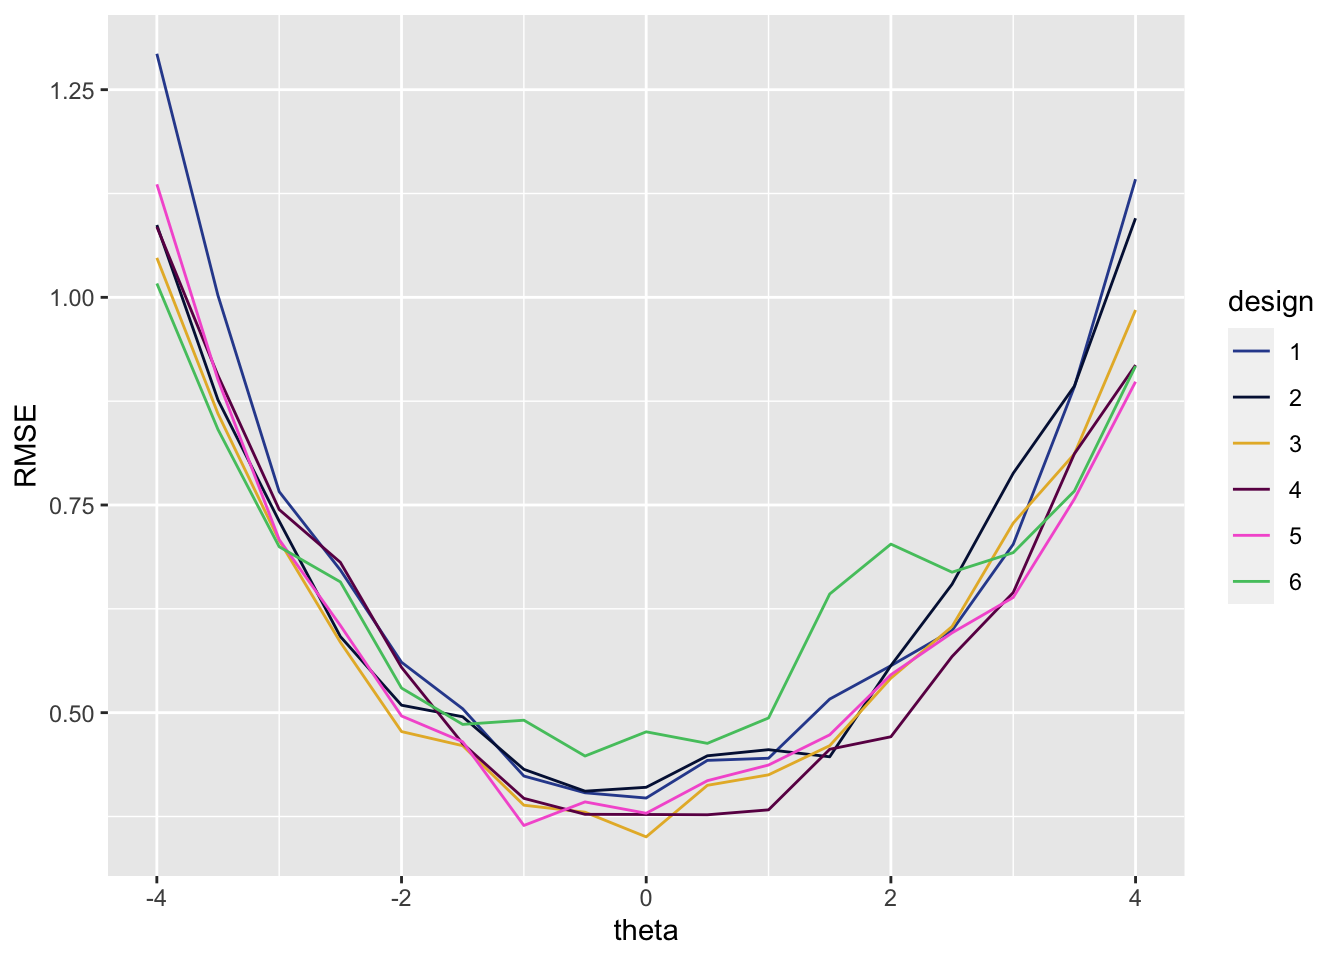
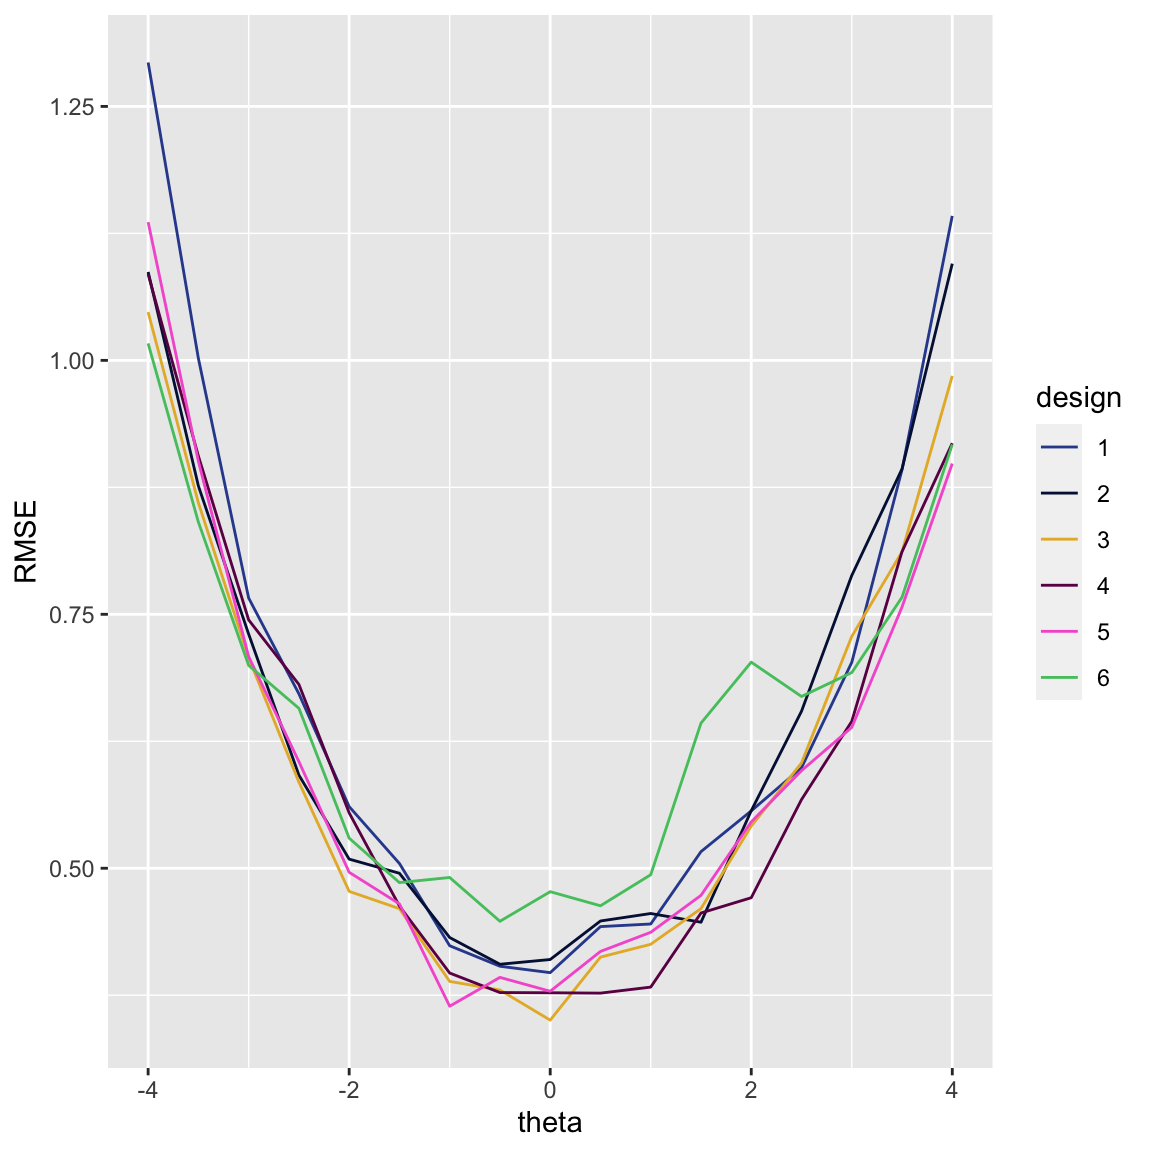
Edits to links in overview of mst-primer-2

diff --git a/content/post/2021-03-15-mst-primer-2/index.en.html b/content/post/2021-03-15-mst-primer-2/index.en.html
@@ -28,11 +28,10 @@ bibliography: references.bib
 <link href="{{< blogdown/postref >}}index.en_files/lightable/lightable.css" rel="stylesheet" />
 
 
-<p>In the previous post on <a href="/2021/03/08/mst-primer-1/">previous post</a> we considered some of the design considerations you need to think about when developing a new <strong>multistage test</strong> (MST).</p>
-<p>In this post we’ll describe the steps required for the development an MST. In particular we’ll look at initial validation of a test design. This post contains some examples of how to perform this validation using R.</p>
+<p>In this post we’ll describe the steps required for the development of a computerised multistage test (MST). In particular we’ll look at initial validation of a test design. The <a href="/2021/03/08/mst-primer-1/">previous post</a> considered some of the design considerations you need to think about when developing a new <strong>multistage test</strong> (MST). This post shows some examples of how to perform this validation using R.</p>
 <div id="simulation" class="section level2">
 <h2>Simulation</h2>
-<p>In the pre-trial stage, it is useful to run simulations to help us answer the questions posed in the previous part of this article. The results of these simulations will help inform final decisions about the test design. It’s always less expensive to make modifications to a design early on in the process, before significant investment in item writing and trialling has been made. The ability to simulate a test at the design phase can be used to understand the constraints of the design at an early stage and make changes in a low-cost, low-risk way. In this section we’ll show how the <code>mstR</code> R package can be used to run simulations for a MST design. First though we’ll cover the data sources that we’ll be using.</p>
+<p>In the pre-trial stage, it is useful to run simulations to help us answer the questions posed in the previous part of this article. The results of these simulations will help inform final decisions about the test design. It’s always less expensive to make modifications to a design early on in the process, before significant investment in item writing and trialling has been made. The ability to simulate a test at the design phase can be used to understand the constraints of the design at an early stage and make changes in a low-cost, low-risk way. In this post we’ll show how the <a href="https://cran.r-project.org/web/packages/mstR/"><code>mstR</code> R package</a> can be used to run simulations for a MST design. First though we’ll cover the data sources that we’ll be using.</p>
 </div>
 <div id="data-sources-and-management" class="section level2">
 <h2>Data Sources and Management</h2>
@@ -127,8 +126,8 @@ routing[module(&#39;C&#39;), module(&#39;E&#39;):module(&#39;G&#39;)] &lt;- 1</c
 dfSampleResponse &lt;- genPattern(theta, it.MST)
 
 (dfSampleResponse)</code></pre>
-<pre><code>##  [1] 0 1 1 0 1 1 1 1 0 1 0 1 1 1 1 0 1 1 1 1 0 1 0 0 0 0 0 0 1 1 1 0 1 1 1 1 1 1
-## [39] 1 1 0 0 1 1 1 1 1 1 1 0 1 1 1 1 0 1 1 1 0 1 1 0 0 1 1 0 0 0</code></pre>
+<pre><code> [1] 0 1 1 0 1 1 1 1 0 1 0 1 1 1 1 0 1 1 1 1 0 1 0 0 0 0 0 0 1 1 1 0 1 1 1 1 1 1
+[39] 1 1 0 0 1 1 1 1 1 1 1 0 1 1 1 1 0 1 1 1 0 1 1 0 0 1 1 0 0 0</code></pre>
 <p>Here we use a <span class="math inline">\(\theta\)</span> of 0.95 for our hypothetical candidate as an example. Note that this doesn’t really simulate a true MST test, as it ignores the routing rules and simply returns a response for all items in the simulated item bank. We can however use the <code>randomMST()</code> function in the <code>mstR</code> package to perform a more realistic simulation. The <code>randomMST()</code> function will generate a response pattern for a given simulated item bank, an MST structure, and a true ability level (<span class="math inline">\(\theta\)</span>). We’ll use Bayesian model estimation (<code>"BM"</code>) for ability estimation (this is the default ability estimation method for the <code>mstR</code> library). The maximum Fisher information criterion (<code>"MFI"</code>) is used for module selection; again this is the default. The Fisher information is the measure of the amount of information that item <span class="math inline">\(X\)</span> carries about the unknown ability parameter <span class="math inline">\(\theta\)</span>.</p>
 <pre class="r"><code>start &lt;- list(theta = theta)
 test &lt;- list(method = &quot;BM&quot;, moduleSelect = &quot;MFI&quot;)
@@ -140,87 +139,87 @@ dfMSTResponse &lt;- randomMST(trueTheta = theta,
                            start = start, test = test, final = final)
 
 (dfMSTResponse)</code></pre>
-<pre><code>## Random generation of a MST response pattern 
-##   without fixing the random seed 
-##  
-##  Item bank calibrated under One-Parameter Logistic (Rasch) model 
-##  
-##  True ability level: 0.95 
-##  
-##  MST structure: 
-##    Number of stages: 3 
-##    Structure (number of modules per stage): 1-2-4 
-##  
-##  Starting parameters: 
-##    Number of available modules at first stage: 1 
-##    Selection of the first stage module: by maximizing module information 
-##      for starting ability 
-##    Starting ability level: 0.95 
-## 
-##  Multistage test parameters: 
-##    Next module selection: maximum Fisher information 
-##    Provisional ability estimator: Bayes modal (MAP) estimator 
-##      Provisional prior ability distribution: N(0,1) prior 
-##    Ability estimation adjustment for constant pattern: none 
-##    Randomesque selection of optimal module: no 
-## 
-##  Multistage test details: 
-## 
-##   Stage 1:
-##     Module administered: 1 
-##     Number of items in module 1: 12 items
-##     Optimal module: yes 
-##     Items and responses: 
-##                                          
-## Nr     1  2  3  4  5  6  7  8  9 10 11 12
-## Item   1  2  3  4  5  6  7  8  9 10 11 12
-## Resp.  1  1  1  0  1  0  0  0  1  1  1  1
-## 
-##     Provisional ability estimate (SE) after stage 1: 0.747 (0.533)
-## 
-##   Stage 2:
-##     Module administered: 3 
-##     Number of items in module 3: 8 items
-##     Optimal module: yes 
-##     Items and responses: 
-##                              
-## Nr     1  2  3  4  5  6  7  8
-## Item  21 22 23 24 25 26 27 28
-## Resp.  0  1  1  1  0  1  1  0
-## 
-##     Provisional ability estimate (SE) after stage 2: 1.07 (0.443)
-## 
-##   Stage 3:
-##     Module administered: 6 
-##     Number of items in module 6: 10 items
-##     Optimal module: yes 
-##     Items and responses: 
-##                                    
-## Nr     1  2  3  4  5  6  7  8  9 10
-## Item  49 50 51 52 53 54 55 56 57 58
-## Resp.  1  1  1  0  1  1  1  1  1  0
-## 
-##     Provisional ability estimate (SE) after stage 3: 1.35 (0.381)
-## 
-##  Final results: 
-##    Total length of multistage test: 30 items 
-##    Final ability estimator: Bayes modal (MAP) estimator 
-##    Final prior distribution: N(0,1) prior 
-##    Final ability estimate (SE): 1.35 (0.381) 
-##    95% confidence interval: [0.607,2.102] 
-## 
-##  Output was not captured!</code></pre>
-<p>For this simulated candidate with a true <span class="math inline">\(\theta\)</span> of 0.95, the MST has delivered an estimated ability <span class="math inline">\(\hat{\theta}\)</span> of 1.354.</p>
+<pre><code>Random generation of a MST response pattern 
+  without fixing the random seed 
+ 
+ Item bank calibrated under One-Parameter Logistic (Rasch) model 
+ 
+ True ability level: 0.95 
+ 
+ MST structure: 
+   Number of stages: 3 
+   Structure (number of modules per stage): 1-2-4 
+ 
+ Starting parameters: 
+   Number of available modules at first stage: 1 
+   Selection of the first stage module: by maximizing module information 
+     for starting ability 
+   Starting ability level: 0.95 
+
+ Multistage test parameters: 
+   Next module selection: maximum Fisher information 
+   Provisional ability estimator: Bayes modal (MAP) estimator 
+     Provisional prior ability distribution: N(0,1) prior 
+   Ability estimation adjustment for constant pattern: none 
+   Randomesque selection of optimal module: no 
+
+ Multistage test details: 
+
+  Stage 1:
+    Module administered: 1 
+    Number of items in module 1: 12 items
+    Optimal module: yes 
+    Items and responses: 
+                                         
+Nr     1  2  3  4  5  6  7  8  9 10 11 12
+Item   1  2  3  4  5  6  7  8  9 10 11 12
+Resp.  1  1  1  0  1  0  0  0  1  1  1  1
+
+    Provisional ability estimate (SE) after stage 1: 0.747 (0.533)
+
+  Stage 2:
+    Module administered: 3 
+    Number of items in module 3: 8 items
+    Optimal module: yes 
+    Items and responses: 
+                             
+Nr     1  2  3  4  5  6  7  8
+Item  21 22 23 24 25 26 27 28
+Resp.  1  0  1  0  0  0  0  1
+
+    Provisional ability estimate (SE) after stage 2: 0.68 (0.437)
+
+  Stage 3:
+    Module administered: 6 
+    Number of items in module 6: 10 items
+    Optimal module: yes 
+    Items and responses: 
+                                   
+Nr     1  2  3  4  5  6  7  8  9 10
+Item  49 50 51 52 53 54 55 56 57 58
+Resp.  1  1  1  1  0  0  0  1  1  0
+
+    Provisional ability estimate (SE) after stage 3: 0.798 (0.367)
+
+ Final results: 
+   Total length of multistage test: 30 items 
+   Final ability estimator: Bayes modal (MAP) estimator 
+   Final prior distribution: N(0,1) prior 
+   Final ability estimate (SE): 0.798 (0.367) 
+   95% confidence interval: [0.078,1.518] 
+
+ Output was not captured! </code></pre>
+<p>For this simulated candidate with a true <span class="math inline">\(\theta\)</span> of 0.95, the MST has delivered an estimated ability <span class="math inline">\(\hat{\theta}\)</span> of 0.798.</p>
 <p>The Module Information Function is used to determine the ‘best’ (that is the most informative) module to route to in the next stage. In this case the modules that the candidate was routed to were A, C, F.</p>
 <p>A plot can be made as follows, showing the highlighted route through the multi-stage test. Note that the output from the <code>randomMST</code> function and the plot use the module and item indices (rather than their labels), so you may want to map these back to a name for ease of interpretation.</p>
 <pre class="r"><code>plot(dfMSTResponse)</code></pre>
 <div class="figure"><span id="fig:unnamed-chunk-1"></span>
-<img src="{{< blogdown/postref >}}index.en_files/figure-html/unnamed-chunk-1-1.png" alt="Example routing" width="672" />
+<img src="{{< blogdown/postref >}}index.en_files/figure-html/unnamed-chunk-1-1.png" alt="Example routing" width="576" />
 <p class="caption">
 Figure 2: Example routing
 </p>
 </div>
-<pre><code>## The plot was not captured!</code></pre>
+<pre><code>The plot was not captured!</code></pre>
 </div>
 <div id="running-repeated-simulations" class="section level3">
 <h3>Running Repeated Simulations</h3>
@@ -580,7 +579,7 @@ ggplot(data = visASB, aes(x = theta, y = ASB)) +
   labs(x = &quot;theta&quot;, y = &quot;ASB&quot;) +
   scale_colour_manual(values=cdPalette)</code></pre>
 <div class="figure"><span id="fig:ASB"></span>
-<img src="{{< blogdown/postref >}}index.en_files/figure-html/ASB-1.png" alt="ASB" width="672" />
+<img src="{{< blogdown/postref >}}index.en_files/figure-html/ASB-1.png" alt="ASB" width="576" />
 <p class="caption">
 Figure 3: ASB
 </p>
@@ -594,7 +593,7 @@ ggplot(data = visRMSE, aes(x = theta, y = RMSE)) +
   labs(x = &quot;theta&quot;, y = &quot;RMSE&quot;) +
   scale_colour_manual(values=cdPalette)</code></pre>
 <div class="figure"><span id="fig:RMSE"></span>
-<img src="{{< blogdown/postref >}}index.en_files/figure-html/RMSE-1.png" alt="RMSE" width="672" />
+<img src="{{< blogdown/postref >}}index.en_files/figure-html/RMSE-1.png" alt="RMSE" width="576" />
 <p class="caption">
 Figure 4: RMSE
 </p>
